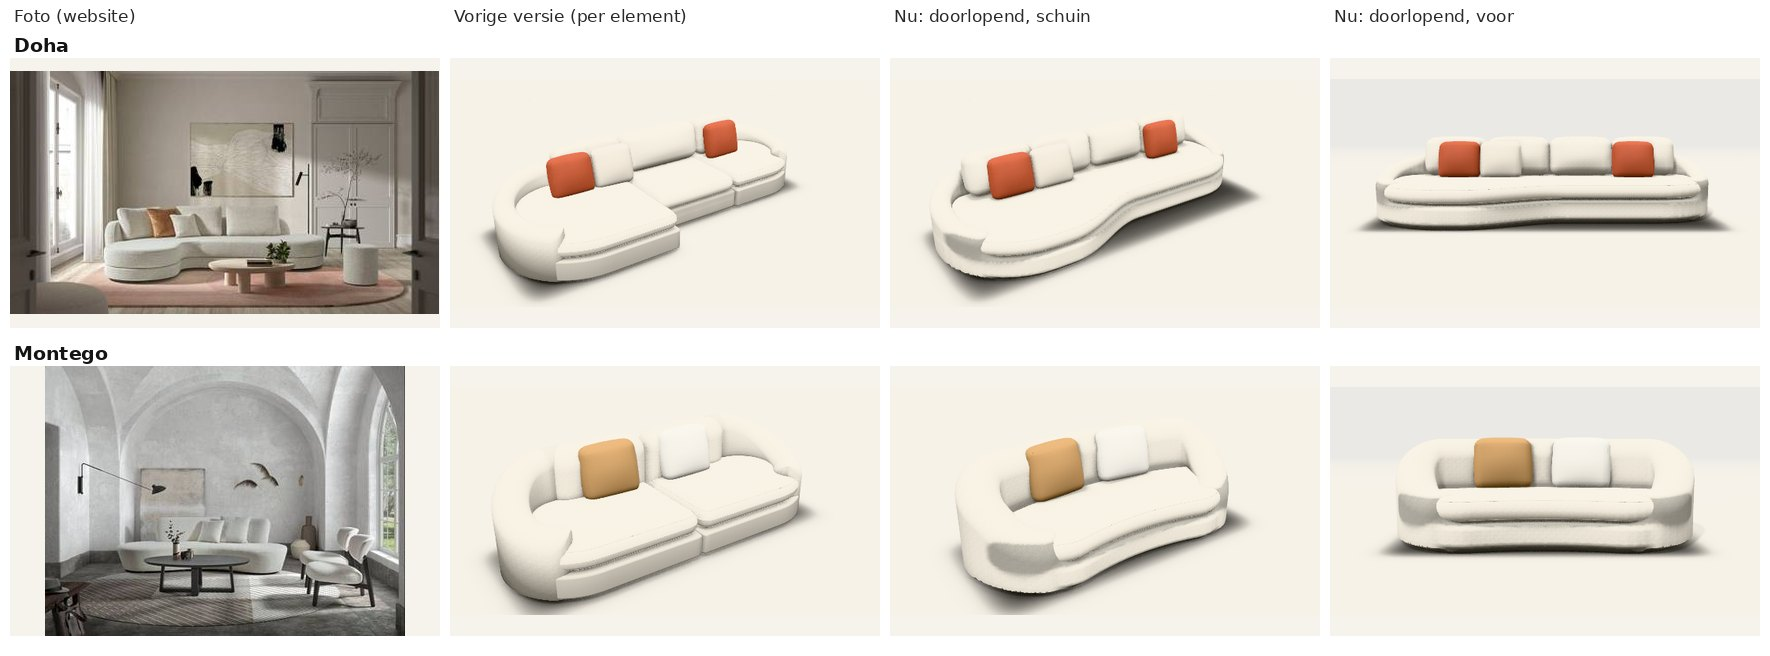
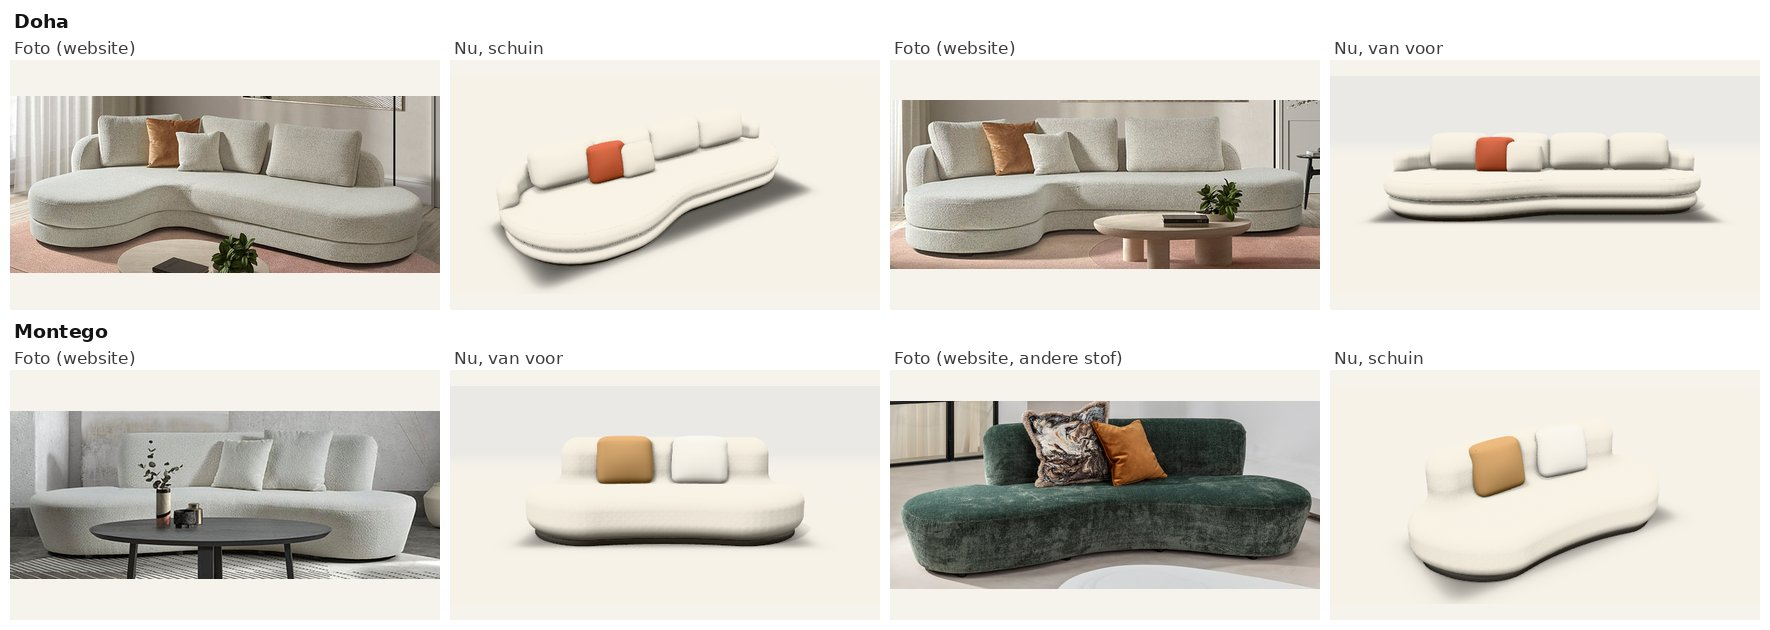
Doha en Montego naar de grote foto's: twee ronde banden, korte armleuningen, vaste zitting
- Doorlopend met losse zitkussens: twee ronde banden (zitting rondom,
  onderbouw 3 cm terug, diepe naad); met een vaste zitting één ronde vorm.
- De rug staat bij een zitkussen op de onderbouw, net binnen de band; bij een
  afgerond uiteinde volgt hij "Rug bij de ronde kant": rond = korte omloop als
  armleuning op volle hoogte (tot 32 % van de diepte), recht = de rug stopt met
  een ronde kop op minstens 40 % van het eindelement.
- Doha: zitting 22 cm, armleuningen aan beide kanten, sierkussens zoals op de
  foto. Montego: vaste zitting, rug aan beide kanten alleen op het rechte deel.
  Benaderingen uit de foto's van de productpagina's.
- Schaduw: buren met een vrije omtrek of gebogen wand tellen met hun echte vorm
  (geen grijze vlekken meer), het zitkussen krijgt schaduw van de rug.
- Voet donkerder en verder naar binnen (leest als schaduwlijn).
- Tests, docs, skill en vergelijkingsbeeld bijgewerkt.

Claude-Session: https://claude.ai/code/session_01PczewFp9M8BS44vqTSpk6u

diff --git a/packages/core/src/doorlopend.ts b/packages/core/src/doorlopend.ts
@@ -123,6 +123,11 @@ export function doorlopendeOpbouw(ontwerp: Ontwerp, catalogus: OntwerpCatalogus,
     return d;
   };
   const rondL = hL.voor > 6, rondR = hR.voor > 6;
+  // De rug bij een afgerond uiteinde: met "Rug loopt rond het uiteinde" draait hij kort om de achterhoek naar voren, als
+  // een armleuning (Doha: armhoogte 65, armbreedte 20); anders stopt hij waar de achterkant recht wordt en loopt de
+  // zitting verder dan de rug (Montego links).
+  const rugRond = (e: OntwerpElement) => gekozenOpties(ontwerp, catalogus, e).get('rug_rond')?.teken?.rond === true;
+  const omL = rondL && rugRond(eerste), omR = rondR && rugRond(laatste);
 
   /** Kwartcirkel rond c met straal r van hoek a0 tot a1 (graden; 0 = +x, 90 = naar voor). */
   const boog = (cx: number, cy: number, r: number, a0: number, a1: number, n = 10): P2[] =>
@@ -192,11 +197,16 @@ export function doorlopendeOpbouw(ontwerp: Ontwerp, catalogus: OntwerpCatalogus,
     nieuw.push({ code: `${id}.${code}`, soort, vorm: 'blok', ...kaderVan(omtrekW), y: r2(y), h: r2(h), kleur, omtrek: omtrekW, glad: true, ...extra });
   };
   const zitOnder = Math.max(P + 4, hg.zithoogte - kussenDik);
+  // Twee banden, zoals op de foto's van Doha: buiten de zitting (het zitkussen, rondom), de onderbouw 3 cm terug, allebei
+  // dik en rond met een diepe naad ertussen. Een vaste zitting (Montego) is één ronde vorm van de voet tot de zitting.
+  const metKussen = kussenDik > 0;
+  const insetBasis = metKussen ? 3.5 : 0.5, hb = zitOnder - P;
+  const rondBasis = Math.max(2, Math.min(hb / 2 - 0.01, hb * (metKussen ? 0.47 : 0.36) * (0.6 + 0.04 * v.zachtheid)));
   // Voet: verdekt (donker, ver naar binnen) of een plint; met een hoes loopt de onderbouw tot op de vloer. De voet staat
   // in de schaduw onder de zetel: de gewone vorm volstaat (geen zachte vorm nodig, dat spaart rekentijd).
   if (potVorm === 'verdekt' || potVorm === 'plint') {
     const hout = String(zetel.get('hout')?.teken?.kleur ?? '#c8a27a');
-    omtrekBlok('voet', potVorm === 'plint' ? 'hout' : 'donker', 0, P, potVorm === 'plint' ? hout : donkerder(stof, 0.45), omtrek(potVorm === 'plint' ? 2 : 7), { afronding: 1, glad: false });
+    omtrekBlok('voet', potVorm === 'plint' ? 'hout' : 'donker', 0, P, potVorm === 'plint' ? hout : donkerder(stof, 0.3), omtrek((potVorm === 'plint' ? 1.5 : 7.5) + insetBasis), { afronding: 1, glad: false });
   } else if (potVorm !== 'housse' && P > 0) {
     // Poten onder de omtrek: in de hoeken en om de ±120 cm langs voor- en achterkant.
     const metaal = opt.get('poten')?.teken?.metaal === true;
@@ -211,18 +221,20 @@ export function doorlopendeOpbouw(ontwerp: Ontwerp, catalogus: OntwerpCatalogus,
       }
     }
   }
-  // Onderbouw in de stof, en het zitkussen (achteraan tot net achter de rug) of een vaste zitting.
-  omtrekBlok('basis', 'stof', P, zitOnder - P, stof, omtrek(0.5), { afronding: Math.min(4, (zitOnder - P) / 3), ...stofExtra });
-  if (kussenDik > 0) omtrekBlok('zitkussen', 'kussen', zitOnder, kussenDik, stof, omtrek(1, RUG - 2), { afronding: zacht, naad, ...stofExtra });
-  // De rug: middenlijn achteraan, rond de afgeronde uiteinden naar voren (tot ±75 % van de diepte), waar hij net boven
-  // de zitting in het zitkussen verdwijnt (geen opstaande vin aan het uiteinde). De middenlijn volgt de omtrek (ook de
-  // ronding vooraan), zodat de wand overal binnen de onderbouw blijft.
+  omtrekBlok('basis', 'stof', P, hb, stof, omtrek(insetBasis), { afronding: rond1(rondBasis), ...stofExtra });
+  // Het zitkussen rondom (ook onder de rug, zoals de band op de foto), met een platte bovenkant en een ronde rand.
+  if (metKussen) omtrekBlok('zitkussen', 'kussen', zitOnder, kussenDik, stof, omtrek(0.5), { afronding: rond1(Math.min(zacht, kussenDik * 0.42)), naad, ...stofExtra });
+  // De rug: middenlijn langs de achterkant. Met een zitkussen staat hij erachter op de onderbouw, net binnen de rand van
+  // het kussen (zoals op de foto loopt de zitting eronder door); bij een vaste zitting vanaf de voet, één vorm.
+  // Bij een afgerond uiteinde: een korte omloop om de achterhoek tot ±32 % van de diepte, op volle hoogte met een ronde
+  // kop (de armleuning van Doha), of de rug stopt met een ronde kop waar de achterkant recht wordt (minstens 40 % van het
+  // eindelement ver, Montego).
+  const w = RUG / 2, wi = w + (metKussen ? 1 : 0), rugOnder = metKussen ? zitOnder : P;
   {
-    const w = RUG / 2, st = omtrekStukken(w);
-    const tot = (d: number) => Y0 + d * 0.75;
+    const st = omtrekStukken(wi);
+    const tot = (d: number) => Y0 + d * 0.32;
     const pad: P2[] = [];
     const hoog: number[] = [];
-    const voor = hg.zithoogte + 3;
     /** Het deel van een ketting (y loopt op) tot op hoogte `grens`, met het laatste punt precies op de grens. */
     const totGrens = (ketting: P2[], grens: number): P2[] => {
       const uit: P2[] = [];
@@ -234,19 +246,16 @@ export function doorlopendeOpbouw(ontwerp: Ontwerp, catalogus: OntwerpCatalogus,
       }
       return uit;
     };
-    // Links: van de achterhoek langs de zijkant en de ronding vooraan tot ±75 % van de diepte; dan omgekeerd (van
-    // vooraan naar achter), zodat de rug van links naar rechts loopt.
-    const wrapL: P2[] = rondL ? totGrens(zonderDubbel([...st.links, ...st.achterL].reverse().concat([...st.voorL].reverse()), false), tot(dL)).reverse() : [[st.xa, st.yb]];
-    const wrapR: P2[] = rondR ? totGrens(zonderDubbel([...st.achterR, ...st.rechts, ...st.voorR], false), tot(dR)) : [[st.xb, st.yb]];
-    const lengte = (pts: P2[]) => pts.reduce((l, p, i) => (i ? l + Math.hypot(p[0] - pts[i - 1]![0], p[1] - pts[i - 1]![1]) : 0), 0);
-    const LL = lengte(wrapL), LR = lengte(wrapR);
-    // Hoogte: achteraan het karkas, naar het einde van de wand toe zachtjes lager.
-    const zak = (u: number) => rond1(voor + (frameRug - voor) * (0.5 + 0.5 * Math.cos(Math.PI * Math.min(1, u))));
-    let l = 0;
-    wrapL.forEach((p, i) => { if (i) l += Math.hypot(p[0] - wrapL[i - 1]![0], p[1] - wrapL[i - 1]![1]); pad.push(p); hoog.push(rondL ? zak(1 - l / (LL || 1)) : frameRug); });
-    for (const p of st.achterkant) { pad.push(p); hoog.push(frameRug); }
-    l = 0;
-    wrapR.forEach((p, i) => { if (i) l += Math.hypot(p[0] - wrapR[i - 1]![0], p[1] - wrapR[i - 1]![1]); pad.push(p); hoog.push(rondR ? zak(l / (LR || 1)) : frameRug); });
+    // Waar de rug begint en eindigt op de rechte achterkant (als hij niet om het uiteinde loopt).
+    const beginX = omL ? st.xa + st.aL : rondL ? Math.max(st.xa + st.aL, X0 + 0.4 * eerste.breedte) : st.xa;
+    const eindX = omR ? st.xb - st.aR : rondR ? Math.min(st.xb - st.aR, X1 - 0.4 * laatste.breedte) : st.xb;
+    // Links: van de achterhoek langs de zijkant tot ±32 % van de diepte; dan omgekeerd (van vooraan naar achter), zodat
+    // de rug van links naar rechts loopt. Overal op karkashoogte: de ronde kop komt van de wand zelf.
+    const wrapL: P2[] = omL ? totGrens(zonderDubbel([...st.links, ...st.achterL].reverse().concat([...st.voorL].reverse()), false), tot(dL)).reverse() : [[beginX, st.yb]];
+    const wrapR: P2[] = omR ? totGrens(zonderDubbel([...st.achterR, ...st.rechts, ...st.voorR], false), tot(dR)) : [[eindX, st.yb]];
+    for (const p of wrapL) { pad.push(p); hoog.push(frameRug); }
+    for (const p of st.achterkant) if (p[0] > beginX + 0.5 && p[0] < eindX - 0.5) { pad.push(p); hoog.push(frameRug); }
+    for (const p of wrapR) { pad.push(p); hoog.push(frameRug); }
     // Dubbele punten weg (de stukken raken elkaar).
     const padSchoon: P2[] = [], hoogSchoon: number[] = [];
     pad.forEach((p, i) => {
@@ -257,17 +266,19 @@ export function doorlopendeOpbouw(ontwerp: Ontwerp, catalogus: OntwerpCatalogus,
     const k = kaderVan(padW);
     nieuw.push({
       code: `${id}.rug`, soort: 'stof', vorm: 'kuipwand', x: r2(k.x - w), z: r2(k.z - w), b: r2(k.b + RUG), d: r2(k.d + RUG),
-      y: r2(P), h: r2(Math.max(...hoogSchoon) - P), kleur: stof, pad: padW, hoogtes: hoogSchoon, dikte: r2(RUG), glad: true, ...stofExtra,
+      y: r2(rugOnder), h: r2(Math.max(...hoogSchoon) - rugOnder), kleur: stof, pad: padW, hoogtes: hoogSchoon, dikte: r2(RUG), glad: true, ...stofExtra,
     });
   }
   // Losse rugkussens langs het rechte deel van de rug, elk naar de rug gedraaid in een boog.
   if (losseRug) {
+    // Van de omloop (of het begin van de rug) tot de andere kant, tegen de binnenkant van de rug.
     const st = omtrekStukken(0);
-    const x0 = st.xa + (rondL ? hL.achter * 0.75 : 2), x1 = st.xb - (rondR ? hR.achter * 0.75 : 2);
+    const x0 = omL ? st.xa + hL.achter * 0.75 : rondL ? Math.max(X0 + hL.achter, X0 + 0.4 * eerste.breedte) : st.xa + 2;
+    const x1 = omR ? st.xb - hR.achter * 0.75 : rondR ? Math.min(X1 - hR.achter, X1 - 0.4 * laatste.breedte) : st.xb - 2;
     const n = Math.max(1, Math.round((x1 - x0) / 75)), breed = (x1 - x0) / n;
     const kantel = { graden: rond1(v.rugvorm === 'hellend' ? 14 : 2 + v.zachtheid * 0.8), richting: 'z-' as const };
     for (let i = 0; i < n; i++) {
-      const cx = x0 + breed * (i + 0.5), cy = Y0 + RUG - 2 + RKD / 2;
+      const cx = x0 + breed * (i + 0.5), cy = Y0 + wi + w - 2 + RKD / 2;
       const q = buig([cx, cy]), b = breed - 2;
       nieuw.push({
         code: `${elementBij(cx).id}.rugkussen${i + 1}`, soort: 'kussen', vorm: 'blok', x: r2(q[0] - b / 2), z: r2(q[1] - RKD / 2), b: r2(b), d: r2(RKD),

diff --git a/packages/core/test/doorlopend.test.ts b/packages/core/test/doorlopend.test.ts
@@ -23,17 +23,24 @@ describe('doorlopende opbouw', () => {
     expect(Math.max(...xs)).toBeGreaterThan(357);
     const dieptebij = (x: number) => Math.max(...zit[0]!.omtrek!.filter((p) => Math.abs(p[0] - x) < 8).map((p) => p[1]));
     expect(dieptebij(75)).toBeGreaterThan(dieptebij(200) + 25);
-    // De rug: hoog achteraan (karkas 65), rond de uiteinden lager naar voren.
+    // De rug: overal op karkashoogte (65), aan beide uiteinden een korte omloop als armleuning (tot ±32 % van de diepte).
     const rug = b.find((x) => x.code.endsWith('.rug'))!;
     expect(rug.vorm).toBe('kuipwand');
-    expect(Math.max(...rug.hoogtes!)).toBe(65);
-    expect(rug.hoogtes![0]!).toBeLessThan(60);
-    expect(rug.hoogtes![rug.hoogtes!.length - 1]!).toBeLessThan(60);
-    expect(rug.pad![0]![1]).toBeGreaterThan(60); // de wand begint links vooraan, op het loungedeel
+    expect(new Set(rug.hoogtes)).toEqual(new Set([65]));
+    expect(rug.pad![0]![1]).toBeGreaterThan(40); // links: tot ±46 cm naar voren op het loungedeel (145 diep)
+    expect(rug.pad![0]![1]).toBeLessThan(52);
+    expect(rug.pad![rug.pad!.length - 1]![1]).toBeGreaterThan(30); // rechts: ±35 cm (110 diep)
+    expect(rug.pad![rug.pad!.length - 1]![1]).toBeLessThan(40);
+    expect(rug.y).toBe(zit[0]!.y); // de rug staat op de onderbouw, achter het zitkussen
+    // Twee banden: het zitkussen rondom (ook achteraan), de onderbouw 3 cm terug, met een ronde rand.
+    const basis = b.find((x) => x.code.endsWith('.basis'))!;
+    expect(Math.min(...zit[0]!.omtrek!.map((p) => p[1]))).toBeLessThan(1);
+    expect(Math.max(...basis.omtrek!.map((p) => p[0]))).toBeLessThan(Math.max(...xs) - 2.5);
+    expect(basis.afronding!).toBeGreaterThan(basis.h * 0.4);
     expect(b.filter((x) => x.code.includes('.rugkussen'))).toHaveLength(4);
     expect(b.some((x) => x.code.endsWith('.voet') && x.soort === 'donker')).toBe(true); // verdekte voet
     // De sierkussens blijven.
-    expect(b.filter((x) => x.code.startsWith('e4.') || x.code.startsWith('e6.')).length).toBeGreaterThan(0);
+    expect(b.filter((x) => x.code.startsWith('e4.') || x.code.startsWith('e5.')).length).toBeGreaterThan(0);
   });
 
   it('prijs, bovenaanzicht en vooraanzicht blijven per element', () => {
@@ -44,13 +51,19 @@ describe('doorlopende opbouw', () => {
     expect(tekenVooraanzicht(o, zetelCatalogus, standaardMaterialen)).toEqual(tekenVooraanzicht(perElement(o), zetelCatalogus, standaardMaterialen));
   });
 
-  it('Montego: in een boog, de uiteinden 30 cm naar voren; de kussens erop draaien mee', () => {
+  it('Montego: in een boog, de uiteinden naar voren; vaste zitting; de rug korter dan de zitting; de kussens draaien mee', () => {
     const b = blokken(model('montego'));
     const rug = b.find((x) => x.code.endsWith('.rug'))!;
     const zs = rug.pad!.map((p) => p[1]);
     const midden = Math.min(...zs);
-    expect(zs[0]! - midden).toBeGreaterThan(20);
-    expect(zs[zs.length - 1]! - midden).toBeGreaterThan(20);
+    // De rug stopt aan beide kanten op de rechte achterkant (minstens 40 % van het eindelement ver), met een ronde kop.
+    expect(rug.pad![0]![0]).toBeGreaterThan(50);
+    expect(rug.pad![rug.pad!.length - 1]![0]).toBeLessThan(210);
+    expect(zs[0]! - midden).toBeGreaterThan(5); // ook daar al naar voren door de boog
+    expect(zs[zs.length - 1]! - midden).toBeGreaterThan(5);
+    expect(new Set(rug.hoogtes)).toEqual(new Set([77])); // overal even hoog: de ronde kop komt van de wand zelf
+    expect(rug.y).toBe(b.find((x) => x.code.endsWith('.basis'))!.y); // één vorm van de voet tot de rug
+    expect(b.some((x) => x.code.endsWith('.zitkussen'))).toBe(false); // vaste zitting
     expect(b.filter((x) => x.code.includes('.rugkussen'))).toHaveLength(0); // vaste rug
     const kussen = b.filter((x) => x.code.startsWith('e3.') || x.code.startsWith('e4.'));
     expect(kussen.length).toBeGreaterThan(0);

diff --git a/packages/core/voorbeelden/modellen.ts b/packages/core/voorbeelden/modellen.ts
@@ -79,22 +79,27 @@ export const zetelModellen: ModelDefinitie[] = [
     hoofdmateriaal: 'boucle_belize',
     opties: { poten: 'verdekt', poothoogte: 'laag', rug: 'los_dons', comfort: 'dons' },
     // Productpagina: diepte 110, zithoogte 42, karkas 65, met rugkussen 84, zitdiepte 62.
-    // Op de foto één doorlopende zetel: één zitting, een lage rug die rond de uiteinden loopt met losse rugkussens erop,
-    // links een dieper, rond loungedeel (diepte 145 = benadering uit de foto), op een verdekte voet.
-    vormgeving: { zithoogte: 42, rughoogte: 84, karkashoogte: 65, rugdikte: 20, rugkussendikte: 26, kussendikte: 18, zachtheid: 9, rugvorm: 'rond', opbouw: 'doorlopend' },
+    // Op de foto's één doorlopende zetel: twee dikke ronde banden (de zitting van ±22 cm boven een dunnere onderbouw),
+    // een lage rug die aan beide uiteinden kort omdraait als armleuning (armhoogte 65, armbreedte 20 volgens de
+    // productpagina) met losse rugkussens erop, links een dieper, rond loungedeel (diepte 145 en zittingdikte 22 zijn een
+    // benadering uit de foto's), op een verdekte voet.
+    vormgeving: { zithoogte: 42, rughoogte: 84, karkashoogte: 65, rugdikte: 20, rugkussendikte: 26, kussendikte: 22, zachtheid: 9, rugvorm: 'rond', opbouw: 'doorlopend' },
     elementen: [
       ...rij([['rond_einde', 150, 145, { ronde_kant: 'links', rug_rond: 'rond' }], ['zit', 100, 110], ['rond_einde', 110, 110, { ronde_kant: 'rechts', rug_rond: 'rond' }]]),
-      sierkussen('e4', 62, 44, 'velours_terracotta'), sierkussen('e5', 108, 44, 'chenille_parel'), sierkussen('e6', 256, 44, 'velours_terracotta'),
+      // Zoals op de foto: een oranje sierkussen en een kleiner lichtgrijs ervoor, links van het midden.
+      sierkussen('e4', 100, 44, 'velours_terracotta'), sierkussen('e5', 136, 50, 'chenille_parel', 40),
     ],
   }, 'Doha', MATEN_WEBSITE),
-  model('montego', 'Montego', SOFA, 'Lage, gebogen sofa in bouclé zonder armen, op een verdekte voet: één doorlopende vorm in een boog, met een vaste rug die rond de uiteinden loopt.', {
+  model('montego', 'Montego', SOFA, 'Lage, gebogen sofa in bouclé zonder armen, op een verdekte voet: één doorlopende vorm in een boog, met een vaste zitting en een vaste rug die korter is dan de zitting.', {
     hoofdmateriaal: 'boucle_belize',
-    opties: { poten: 'verdekt', poothoogte: 'laag', rug: 'vast', comfort: 'dons' },
-    // Productpagina: diepte 99, zithoogte 39, hoogte 77, zitdiepte 60. De boog (uiteinden 30 cm naar voren) is een
-    // benadering uit de foto; in de tekening blijven het twee afgeronde elementen.
+    opties: { poten: 'verdekt', poothoogte: 'laag', rug: 'vast', zitting: 'vaste_zitting', comfort: 'dons' },
+    // Productpagina: diepte 99, zithoogte 39, hoogte 77, zitdiepte 60. Op de foto's: één vaste zitting zonder los kussen,
+    // en een ronde rug die aan beide kanten met een ronde kop stopt, ±20 % voor het uiteinde (de zitting loopt verder).
+    // De boog (uiteinden 30 cm naar voren) en die rugverdeling zijn een benadering uit de foto's; in de tekening blijven
+    // het twee afgeronde elementen.
     vormgeving: { zithoogte: 39, rughoogte: 77, zachtheid: 10, rugvorm: 'rond', rugdikte: 30, kussendikte: 18, opbouw: 'doorlopend', bocht: 30 },
     elementen: [
-      ...rij([['rond_einde', 130, 99, { ronde_kant: 'links', rug_rond: 'rond' }], ['rond_einde', 130, 99, { ronde_kant: 'rechts', rug_rond: 'rond' }]]),
+      ...rij([['rond_einde', 130, 99, { ronde_kant: 'links', rug_rond: 'recht' }], ['rond_einde', 130, 99, { ronde_kant: 'rechts', rug_rond: 'recht' }]]),
       sierkussen('e3', 70, 28, 'chenille_camel'), sierkussen('e4', 140, 28, 'katoen_kalk'),
     ],
   }, 'Montego', MATEN_WEBSITE),

diff --git a/packages/demo-web/src/drie-d.ts b/packages/demo-web/src/drie-d.ts
@@ -1896,11 +1896,12 @@ export function maak3D(houder: HTMLElement, opties: Opties3D = {}): Viewer3D | n
         const zacht = weergave.vormen === 'zacht';
         const groepen = zachteGroepen(zacht ? zichtbaar : zichtbaar.filter((b) => b.glad));
         for (const b of zichtbaar) if (b.glad && !smeltMee(b)) groepen.push([b]);
-        const kussens = zichtbaar.filter((b) => b.soort === 'kussen');
         const taken: { delen: Blok[]; buren: Blok[] }[] = [];
         for (const delen of groepen) {
           const kader = delen.reduce((k, b) => k.union(doosVan(b)), new THREE.Box3()).expandByScalar(25);
-          const buren = kussens.filter((b) => !delen.includes(b) && kader.intersectsBox(doosVan(b)));
+          // Een glad kussen (het zitkussen van een doorlopende zetel) krijgt ook schaduw van de rug en de onderbouw ernaast.
+          const kussenGroep = delen.every((d) => d.soort === 'kussen');
+          const buren = zichtbaar.filter((b) => (b.soort === 'kussen' || (kussenGroep && b.glad && b.soort === 'stof')) && !delen.includes(b) && kader.intersectsBox(doosVan(b)));
           const m = zachteMesh(delen, buren);
           if (m) {
             groep.add(m);

diff --git a/packages/core/src/zachtevorm.ts b/packages/core/src/zachtevorm.ts
@@ -604,7 +604,10 @@ export function zachteVorm(blokken: Blok[], opties: ZachteVormOpties = {}): Zach
   }
 
   // Schaduw in hoeken en plooien: hoe dicht het oppervlak (met kussens en vloer) langs de normaal ligt.
-  const buren = (opties.buren ?? []).filter((b) => (b.vorm ?? 'blok') === 'blok' || b.vorm === 'cilinder').map((b) => balk(b, Math.min(b.afronding ?? 2, 6)));
+  // Een buur met een eigen vorm (vrije omtrek, gebogen wand, profiel) met die vorm: als doos rond zijn kader gaf hij schaduw
+  // waar niets staat (bv. vóór de holle voorkant van een doorlopende zetel).
+  const buren = (opties.buren ?? []).filter((b) => (b.vorm ?? 'blok') === 'blok' || b.vorm === 'cilinder' || kanVorm(b))
+    .map((b) => (b.omtrek || b.vorm === 'kuipwand' || b.vorm === 'profiel' ? primitiefVan(b) : balk(b, Math.min(b.afronding ?? 2, 6))));
   const burenVeld = (x: number, y: number, z: number) => {
     let d = y; // de vloer
     for (const p of buren) {

diff --git a/docs/overdracht.md b/docs/overdracht.md
@@ -19,7 +19,7 @@
 | **Onderzoek raamsoftware (1/11)** | `docs/onderzoek-raamsoftware.md`: hoe LogiKal, ReynaPro (= afgeschermde Reynaers-versie van LogiKal) en Chacal (DSI) rekenen (aftrekken, glasmaten, beslag, statiek, Uw, prijs, productie, CE) en waar wij passen: commerciële laag + werf, koppeling i.p.v. nabouwen. Admin2Win leest al materiaallijsten in uit LogiKal, ReynaPro, Chacal, SapaLogic, Ramasoft, WinPro en Schücal. Voorstel om in te bouwen: statische voordimensionering, afstandhouder (ψ), glasbestelling per ruit. |
 | **Raamberekening (1/11, ronde 3)** | Ingebouwd: **statiek** (stap Statiek: winddruk, L/300 of L/200, tussenstijl standaard/versterkt/koppelprofiel, nodig/aanwezig cm⁴, winddruk voor alle ramen vanuit de offerte, rode stijl in 3D), **afstandhouder** (ψ in de Uw, rand rond het glas in 3D), **glasbestelling per ruit** (dagmaat, falsmaat, glasmaat; kopiëren of CSV). 145 tests groen. |
 | **Groot scherm en maten (1/11, ronde 5)** | Knop *Groot scherm* bij elk tekenvlak (plattegrond, gevels, zetelontwerper). Een raam of deur toont tijdens het plaatsen en bij selectie de kettingmaten tot de muren; "Muur links/rechts" kun je intypen. Een meubel toont de afstand tot de muren. |
-| **Doorlopende zetel: Doha en Montego (4/11)** | Melding: "Montego en Doha zien er in de 3D identiek uit" en "groot verschil qua opbouw" met de foto. Oorzaak: beide waren losse elementen naast elkaar; op de foto is elk één doorlopende zetel.<br>• **Nieuw in de vormgeving van de zetel:** *Opbouw in 3D* (*Per element* of *Doorlopend (één zetel)*) en *Boog bij doorlopend* (0–60 cm, de uiteinden naar voren). Motor: `core/src/doorlopend.ts`.<br>• **Doorlopend:** één onderbouw op de voet, één zitkussen over de hele lengte, één lage rug die rond de ronde uiteinden naar voren zakt (tot 75 % van de diepte), losse rugkussens langs de rug; een dieper element loopt vloeiend over in de rest (overgang 1,6 × het diepteverschil aan elke kant, 25–70 cm). Onderbouw en rug zijn één zachte vorm, ook bij *Blokken*.<br>• **Doha:** loungedeel links 145 cm diep. **Montego:** boog van 30 cm, vaste rug. Beide maten zijn een benadering uit de foto.<br>• **Rekenen:** in de achtergrond (eerst de gewone vorm), ±0,3–0,7 s; de motor gebruikt nu tabellen in het grondvlak voor lange omtrekken en wanden (2 à 3 × sneller).<br>• **Blijft per element:** prijs, offerte, boven- en vooraanzicht (de boog alleen in 3D). Let op: de offerte toont dus in 3D één zetel en in de tekeningen de losse elementen. Alleen een rechte rij: bij een hoeksofa doet alleen de langste rechte rij mee (niet getest).<br>• Beeld: `docs/afbeeldingen/doorlopende-zetel.jpg`; uitleg in `docs/zachte-vormen.md`. |
+| **Doorlopende zetel: Doha en Montego (4/11)** | Melding: "Montego en Doha zien er in de 3D identiek uit" en "groot verschil qua opbouw" met de foto; daarna "we maken progressie maar is nog niet af". Oorzaak: beide waren losse elementen naast elkaar; op de foto's (de grote van de productpagina's) is elk één doorlopende zetel.<br>• **Nieuw in de vormgeving van de zetel:** *Opbouw in 3D* (*Per element* of *Doorlopend (één zetel)*) en *Boog bij doorlopend* (0–60 cm, de uiteinden naar voren). Motor: `core/src/doorlopend.ts`.<br>• **Doorlopend:** met losse zitkussens twee ronde banden (zitting rondom, onderbouw 3 cm terug, diepe naad), met een vaste zitting één ronde vorm; één rug langs de achterkant. Bij een afgerond uiteinde volgt de rug *Rug bij de ronde kant*: *rond* = korte omloop als armleuning op volle hoogte (tot ±32 % van de diepte), *recht* = de rug stopt met een ronde kop ±40 % van het eindelement ver en de zitting loopt verder. Een dieper element loopt vloeiend over in de rest (1,6 × het diepteverschil aan elke kant, 25–70 cm). Onderbouw en rug zijn één zachte vorm, ook bij *Blokken*.<br>• **Doha:** loungedeel links 145 cm diep, zitting 22 cm, armleuningen aan beide kanten, oranje en lichtgrijs sierkussen. **Montego:** vaste zitting, rug aan beide kanten alleen op het rechte deel, boog van 30 cm. Allemaal benaderingen uit de foto's.<br>• **Schaduw:** buren met een vrije omtrek (zitkussen) of gebogen wand tellen nu met hun echte vorm (vroeger als doos rond hun kader: grijze vlekken waar niets staat); het zitkussen krijgt schaduw van de rug.<br>• **Rekenen:** in de achtergrond (eerst de gewone vorm), ±0,3–0,7 s; tabellen in het grondvlak voor lange omtrekken en wanden (2 à 3 × sneller).<br>• **Blijft per element:** prijs, offerte, boven- en vooraanzicht (de boog alleen in 3D). Let op: de offerte toont dus in 3D één zetel en in de tekeningen de losse elementen. Alleen een rechte rij: bij een hoeksofa doet alleen de langste rechte rij mee (niet getest).<br>• Beeld: `docs/afbeeldingen/doorlopende-zetel.jpg`; uitleg in `docs/zachte-vormen.md`. |
 | **Strakke arm met eigen vorm (4/11)** | Na de zachte vormen: de strakke arm (16 van de 21 modellen met armen) is een eigen doorsnede (`strakProfiel` in `ruimtelijk.ts`), in alle weergaven en in het vooraanzicht.<br>• **Vorm:** zacht afgeronde, licht bolle bovenkant, licht bolle zijkanten, een voorpaneel met afgeronde rand dat in het midden bol staat; hoe zacht volgt de zachtheid van het model. Met een hoes loopt de arm tot op de vloer (Husk).<br>• **Naad of bies rond het voorpaneel** van elke arm met een eigen vorm (ook Wallace), volgens *Naden*.<br>• **Sneller:** grote zetels (meer dan 3 m³) met een raster van 2,5 cm bij *Zacht*; ±0,2–0,7 s per sofa.<br>• **Nog als balk:** rolarm, Engels, schuin, met houten blad, en de rug en onderbouw.<br>• Beeld: `docs/afbeeldingen/strakke-arm.jpg`; uitleg in `docs/zachte-vormen.md`. |
 | **Zachte vormen, stap 1 (4/11)** | Vraag: "Kunnen we die 3D niet gebruiken als voorbeeld om zelf de zetels op te maken in 3D?" Gekozen: stap 1, de motor maakt zelf zulke vormen. Verslag: `docs/zachte-vormen.md`.<br>• **Instelling *Vormen*** in de 3D: *Blokken* of *Zacht (proef)*, standaard *Blokken*. Bij *Zacht* smelten onderbouw, armen, rug en hoes samen tot één doorlopende vorm, met afronding in de hoeken, geen richel op naden en schaduw in de plooien (`core/src/zachtevorm.ts`: afstandsvelden + surface nets). Kussens, hout en metaal blijven zoals ze waren; ronde vormen (kuipfauteuils, afgerond eindelement) smelten niet mee.<br>• **Uitlopende arm** (Wallace, Esmee) opnieuw getekend als één doorsnede (`Blok.vorm = 'profiel'`): recht tegen de zitting, buitenkant uitlopend tot een krul over de zijkant, oplopend naar het karkas, met hoes tot op de vloer (geen trapje meer). Ook bij *Blokken*.<br>• **Grenzen:** ±0,6–0,9 s rekenen per sofa (op een tablet langer, daarom na het slepen en standaard uit), 45.000–110.000 driehoeken, alleen de uitlopende arm heeft een eigen vorm; geen plooien.<br>• Beeld: `docs/afbeeldingen/zachte-vormen-wallace.jpg`. |
 | **Proef echt 3D-model (4/11)** | Melding: "Ik vrees dat we er niet raken om de zetels realistisch te maken". Daarom een proef met een echt 3D-bestand in plaats van blokken. Verslag, werking en wat we van de klant nodig hebben: `docs/echte-3d-modellen.md`.<br>• **Model:** *Glam Velvet (proef echt 3D-model)*, onder *Modellen* → filter *Proef: echt 3D-model*. Gratis bestand van Wayfair (CC BY 4.0, Khronos-voorbeeld), **geen model van Corneille & Silence**, verkleind van 3,1 MB naar 163 kB. Alleen in de gewone demo, niet in de huisstijlversie.<br>• **Wat werkt:** het echte model in 3D, met onze stof (kleur, weefsel op ware grootte, velours, stoffoto) en pootafwerking (metaal, messing of hout). Het rekt mee tot ± 15 % in breedte, diepte en zithoogte. Schakelaar *Echt 3D-model / Benadering* linksboven (niet in de klantweergave) en de bronvermelding onderaan. Prijs, tekeningen en offerte blijven op de elementen.<br>• **Terugval:** past het bestand niet (andere opstelling, keuze die het bestand niet heeft, kussen erop, andere stof per element, te groot), dan de blokken met de reden linksboven.<br>• **Code:** `core/src/echt3d.ts`, `core/voorbeelden/proefmodellen.ts`, `demo-web/modellen3d/`, laden en stof in `demo-web/src/drie-d.ts`. Tests: `core/test/echt3d.test.ts`.<br>• **Volgende stap:** 3D-bestanden per element vragen aan de klant (of één model laten maken), dan per elementtype inladen.<br>• Beeld: `docs/afbeeldingen/echt-3d-model-proef.jpg`. |

diff --git a/docs/zachte-vormen.md b/docs/zachte-vormen.md
@@ -69,35 +69,50 @@ verschil qua opbouw van de zetel."
 ### Oorzaak
 
 Beide modellen waren in 3D opgebouwd uit losse elementen: twee of drie elementen naast elkaar, elk met een eigen
-onderbouw, zitkussen en rugdeel. Op de foto is elk model één doorlopende zetel, en de twee verschillen sterk:
+onderbouw, zitkussen en rugdeel. Op de foto's is elk model één doorlopende zetel, en de twee verschillen sterk. De
+grote foto's van de productpagina's (Doha 2, Montego 5) tonen:
 
-- **Doha:** één lange zitting, een lage rug die rond de ronde uiteinden loopt met losse rugkussens erop, links een
-  dieper, rond loungedeel, op een verdekte voet;
-- **Montego:** één vorm in een boog (de uiteinden komen naar voren), met een vaste rug die rond de uiteinden loopt.
+- **Doha:** twee dikke, ronde banden boven elkaar: de zitting (±22 cm) en een dunnere onderbouw die iets terugspringt,
+  met een diepe naad ertussen. De lage rug draait aan beide uiteinden kort om als een ronde armleuning op volle hoogte
+  (productpagina: armhoogte 65, armbreedte 20). De zitting loopt eronder door rond de uiteinden. Losse rugkussens,
+  links een dieper, rond loungedeel, op een verdekte voet.
+- **Montego:** één vaste zitting zonder los kussen, in een boog (de uiteinden komen naar voren). De rug is een ronde
+  rol die korter is dan de zitting: aan beide kanten stopt hij met een ronde kop, ±20 % vóór het uiteinde.
 
 ### Wat er nieuw is
 
-![Doha en Montego: foto van de website, de vorige versie (per element) en nu (doorlopend)](afbeeldingen/doorlopende-zetel.jpg)
+![Doha en Montego: foto's van de website en nu, schuin en van voor](afbeeldingen/doorlopende-zetel.jpg)
 
 1. **Nieuwe keuze bij de vormgeving van de zetel: *Opbouw in 3D*.**
    - *Per element* (zoals vroeger);
-   - *Doorlopend (één zetel)*: de rij elementen wordt in 3D één zetel, met één onderbouw, één zitkussen over de hele
-     lengte en één lage rug die achteraan loopt en rond de ronde uiteinden naar voren zakt. Losse rugkussens staan langs
-     de rug. Een dieper element, zoals het loungedeel van Doha, loopt met een zachte overgang over in de rest.
-2. **Nieuwe schuifbalk: *Boog bij doorlopend*** (0 tot 60 cm). De hele zetel buigt in een boog: de uiteinden komen zoveel
+   - *Doorlopend (één zetel)*: de rij elementen wordt in 3D één zetel. Met losse zitkussens zijn dat twee ronde banden
+     (zitting rondom, onderbouw 3 cm terug); met een vaste zitting één ronde vorm van de voet tot de zitting. Daarop één
+     rug langs de achterkant, met losse rugkussens als het model die heeft. Een dieper element, zoals het loungedeel
+     van Doha, loopt vloeiend over in de rest.
+2. **De rug bij een afgerond uiteinde volgt de keuze *Rug bij de ronde kant*:**
+   - *Rug loopt rond het uiteinde*: een korte omloop om de achterhoek (tot ±32 % van de diepte) op volle hoogte, met
+     een ronde kop, zoals de armleuningen van Doha;
+   - *Rug alleen op het rechte deel*: de rug stopt met een ronde kop waar de achterkant recht wordt (minstens 40 % van
+     het eindelement ver), zoals bij Montego; de zitting loopt verder.
+3. **Nieuwe schuifbalk: *Boog bij doorlopend*** (0 tot 60 cm). De hele zetel buigt in een boog: de uiteinden komen zoveel
    cm naar voren. De kussens erop draaien mee.
-3. **Doha en Montego gebruiken die opbouw.** Doha: links een loungedeel van 145 cm diep. Montego: een boog van 30 cm.
-   Beide maten zijn een **benadering uit de foto**, geen maat van de klant.
-4. **Eén zachte vorm.** Onderbouw en rug zijn één gestoffeerd geheel met een zachte overgang ertussen, ook bij *Blokken*.
+4. **Doha en Montego gebruiken die opbouw.**
+   - Doha: links een loungedeel van 145 cm diep, zitting 22 cm dik, een oranje en een lichtgrijs sierkussen zoals op de
+     foto.
+   - Montego: vaste zitting, de rug aan beide kanten *alleen op het rechte deel*, een boog van 30 cm.
+   - De diepte, de zittingdikte, de boog en de rugverdeling zijn een **benadering uit de foto's**, geen maat van de
+     klant.
+5. **Eén zachte vorm.** Onderbouw en rug zijn één gestoffeerd geheel met een zachte overgang ertussen, ook bij *Blokken*.
    Het zitkussen is een eigen vorm met een naad boven- en onderaan.
-5. **Geen strepen en geen uitstekende randen meer.** De rug volgt nu de ronding van de uiteinden en blijft overal binnen
-   de onderbouw. De schaduw op de rug klopt ook waar de rug naar voren zakt.
-6. **Korter wachten, in stukjes.** De zachte vorm wordt na het tonen berekend, één stuk per keer (eerst onderbouw en
+6. **Geen strepen, geen uitstekende randen en geen grijze vlekken meer.**
+   - De rug blijft overal binnen de omtrek.
+   - De schaduw van een buurdeel met een vrije omtrek (bv. het zitkussen) volgt nu die omtrek. Vroeger telde zo'n deel
+     als een rechthoekige doos, wat schaduw gaf waar niets staat, zoals vóór de holle voorkant van Montego.
+   - Het zitkussen krijgt schaduw van de rug ernaast.
+7. **Korter wachten, in stukjes.** De zachte vorm wordt na het tonen berekend, één stuk per keer (eerst onderbouw en
    rug, dan het zitkussen). Tot ze klaar is, staat er even de gewone vorm. Gemeten op de server: Doha ±0,7 s, Montego
-   ±0,3 à 0,4 s; in de browser verschijnt de vorm na ±1 à 2 s. Tijdens elk stuk staat het scherm nog even stil (bij Doha
+   ±0,3 s; in de browser verschijnt de vorm na ±1 à 2 s. Tijdens elk stuk staat het scherm nog even stil (bij Doha
    tot ±0,5 s; op een tablet waarschijnlijk 2 à 3 keer langer).
-7. **Het loungedeel loopt vloeiend over in de rest.** Hoe groter het verschil in diepte, hoe breder de overgang (bij Doha
-   ±1 m), zoals de golvende voorkant op de foto.
 
 ### Wat hetzelfde blijft
 
@@ -138,8 +153,11 @@ De motor gebruikt dezelfde werkwijze als 3D-programma's (*afstandsvelden* en *su
   verandert weinig, de winst zit in een eigen vorm per stijl. De rug en de onderbouw zijn ook nog balken.
 - **Geen plooien of hangende stof:** geen kreukels in de hoes, geen kussens die doorzakken.
 - **Benaderingen:** voor modellen zonder technische tekening blijft elke 3D een benadering uit foto's, hoe mooi ze ook
-  oogt. Bij Doha en Montego gaat het om de diepte van het loungedeel, de boog en hoe ver de rug rond de uiteinden loopt.
+  oogt. Bij Doha en Montego gaat het om de diepte van het loungedeel, de zittingdikte, de boog en hoe ver de rug rond de
+  uiteinden loopt.
 - **Doorlopende opbouw:** alleen voor een rechte rij zitelementen (geen hoeksofa), en de boog staat alleen in de 3D.
+  Montego is symmetrisch getekend; op de foto loopt de zitting links iets verder dan rechts. De rugkussens van Doha zijn
+  even breed; op de foto verschillen ze wat.
 - **Niet getest op een echt toestel:** alleen in Chromium zonder grafische kaart (swiftshader), niet op een tablet of
   telefoon.
 

diff --git a/.claude/skills/zetel-3d/SKILL.md b/.claude/skills/zetel-3d/SKILL.md
@@ -142,13 +142,15 @@ Lees opties via `gekozenOpties(ontwerp, catalogus, e)` en `te(groep, veld, stand
 - **`Vormgeving.opbouw`** `'elementen' | 'doorlopend'` en **`Vormgeving.bocht`** (cm, 0–60): alleen op zetelniveau (verborgen bij een element). Doha (`doorlopend`) en Montego (`doorlopend`, `bocht: 30`, benadering uit de foto).
 - **`doorlopendeRij`**: de langste rij aansluitende elementen met tekenstijl zit, rond of zit_zonder_rug, rotatie 0, op één lijn. **`doorlopendeOpbouw`** (vanuit `bouw3D`) haalt hun blokken weg en zet er één zetel voor in de plaats, met codes van het middelste element:
   - diepte per x (`diepteBij`): een dieper buurelement loopt over met een smoothstep van 1,6 × het verschil aan elke kant (25–70 cm), hooguit de helft van elk element en buiten de ronde voorhoeken (anders een sprong aan het eind van de boog);
-  - `.voet` (verdekt/plint, gewone omtrek, `glad: false`) of poten langs de omtrek;
-  - `.basis` (stof) en `.zitkussen` (kussen, achterkant `RUG − 2` naar voor, met naad): vrije omtrek, `glad: true`;
-  - `.rug`: kuipwand langs de omtrek (inset = halve rugdikte), rond een afgerond uiteinde ook langs de ronding vooraan tot 75 % van de diepte; hoogte zakt met een cosinus van het karkas naar zithoogte + 3;
+  - `.voet` (verdekt/plint, gewone omtrek, `glad: false`, donker, 7,5 cm binnen de onderbouw) of poten langs de omtrek;
+  - met losse zitkussens (`metKussen`): `.zitkussen` rondom (inset 0,5, ook onder de rug, afronding ≤ 0,42 × dikte, met naad) en `.basis` 3 cm terug (inset 3,5) met afronding ±0,47 × hoogte: twee ronde banden zoals Doha. Met een vaste zitting: alleen `.basis` (inset 0,5, afronding ±0,36 × hoogte), één vorm zoals Montego. Beide `glad: true`;
+  - `.rug`: kuipwand langs de achterkant; met een zitkussen staat hij op de onderbouw (`y = zitOnder`, middenlijn 1 cm verder binnen), anders vanaf de voet. Bij een afgerond uiteinde volgt hij `rug_rond`: `rond` = omloop langs de omtrek tot 32 % van de diepte, `recht` = begin/einde op de rechte achterkant op ≥ 40 % van het eindelement. Overal karkashoogte: de ronde kop komt van de capsule zelf;
   - losse rugkussens om de ±75 cm (met `draai` in een boog).
-- **Omtrek in stukken** (`omtrekStukken`): achterhoeken, achterkant, zijkanten, voorhoeken, voorkant met de diepte per x (zachte overgang van 2 × 25 cm naar een dieper element). De hoeken worden kleiner als de achterkant naar voor schuift (anders plooit de omtrek: test op snijdende zijden in `doorlopend.test.ts`). Dubbele punten eruit (`zonderDubbel`).
+- **Omtrek in stukken** (`omtrekStukken`): achterhoeken, achterkant, zijkanten, voorhoeken, voorkant met de diepte per x (`diepteBij`). De hoeken worden kleiner als de achterkant naar voor schuift (anders plooit de omtrek: test op snijdende zijden in `doorlopend.test.ts`). Dubbele punten eruit (`zonderDubbel`).
 - **Boog** (`buig`): R = W²/(8s) + s/2 en θ = (x − xc)/R; alle punten (omtrek, pad, kussens, opzet-elementen op de rij) gaan mee; `Blok.draai` (graden, x naar z) draait een blok rond zijn midden (weergave: `rotation.order = 'YXZ'`, `rotation.y = −draai`).
-- **`Blok.glad`**: altijd als zachte vorm, ook bij *Blokken*. `toon()` groepeert de gladde stofdelen (onderbouw + rug = één vorm) en zet de andere gladde delen (zitkussen) apart; `planZacht` rekent ze in de achtergrond, één per keer, tot dan de gewone vorm. Raster 2,5 cm bij meer dan 3 m³ of meer dan 4 m² grondvlak.
+- **`Blok.glad`**: altijd als zachte vorm, ook bij *Blokken*. `toon()` groepeert de gladde stofdelen (onderbouw + rug = één vorm) en zet de andere gladde delen (zitkussen) apart, met de gladde stofdelen als buren voor de schaduw; `planZacht` rekent ze in de achtergrond, één per keer, tot dan de gewone vorm. Raster 2,5 cm bij meer dan 3 m³ of meer dan 4 m² grondvlak.
+- **Schaduw van buren** (`zachteVorm`, `buren`): een buur met een vrije omtrek, gebogen wand of profiel telt met zijn echte vorm (`primitiefVan`), andere als afgeronde doos. Als doos rond zijn kader gaf een zitkussen met vrije omtrek grijze vlekken waar niets staat.
+- **Vergelijken met de klant:** de productpagina's (bv. `https://www.corneille-silence.be/doha.html`) hebben grote foto's (`…_orig.jpg`, 1100 px); de foto's in `demo-web/fotos/` zijn maar 420 px. Haal ze in een eigen map in de scratchpad en lees ze met `python3 -I`.
 - **Prijs, bovenaanzicht en vooraanzicht blijven per element** (test in `doorlopend.test.ts`). Een gedraaid element breekt de rij.
 
 ## Testen in de browser
